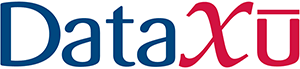
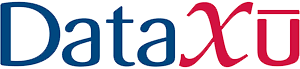
minor edits to camp

diff --git a/c/master.css b/c/master.css
@@ -921,6 +921,7 @@ sponsors
   width: 100%;  /* Change as we start getting more sponsors */
   max-width: 120px;
   text-align: center;
+  vertical-align: top;
   margin: 40px 0;
   display: inline-block;
 

diff --git a/camp/index.php b/camp/index.php
@@ -37,7 +37,7 @@
 			<h2 style="padding-bottom: 80px;">Summer</h2>
 
 			<p class="intro">
-				This summer, we'll be co-hosting the Media Leadership Center with our friends at
+				This summer, we'll be co-hosting the Media Leadership Institute with our friends at
 				<a href="http://www.presspasstv.org/" target="_blank">Press Pass TV</a>, designing and building a functional
 				prototype	for the Mayor's Office. And on August 20th, they will be presenting their work to an audience at Demo Day.
 			</p>
@@ -77,7 +77,22 @@
 				Video and original music by Andy Laub of <a href="http://asithappens.tv" target="_blank">As It Happens Films.</a>
 			</p>
 			<div id="sponsors">
-      <p>Our camps are made possible by our sponsors:</p>
+			<p>Media Leadership Institute 2015 is made possible by our sponsors:</p>
+			<a href="http://tugg.org" title="Tech Underwriting Greater Good" target="_blank">
+        <img src="https://delmarsenties.s3.amazonaws.com/resilient/logos/tugg.png" style="padding-top:12px;" />
+      </a>
+			<a href="https://twitter.com/bpdshannon" title="Boston Police Department Shannon Grant" target="_blank" >
+        <img src="img/bpd.png"/>
+      </a>
+			<a href="http://svb.com" title="Silicon Valley Bank" target="_blank" class="horizontal">
+        <img src="img/svb.png"/>
+      </a>
+			<a href="https://testive.com/" title="Testive" target="_blank" style="margin:0;">
+        <img src="img/testive.png"/>
+      </a>
+			<div class="clr"></div>
+
+      <p>Boston Coding Camp 2015 was made possible by our sponsors:</p>
       <a href="http://tugg.org" title="Tech Underwriting Greater Good" target="_blank">
         <img src="https://delmarsenties.s3.amazonaws.com/resilient/logos/tugg.png" style="padding-top:12px;" />
       </a>
@@ -97,7 +112,7 @@
         <img src="img/NextStepLiving.png" />
       </a>
       <a href="http://wilmerhale.com/" title="Wilmer Hale" target="_blank" class="horizontal">
-        <img src="img/WilmerHale.JPG" />
+        <img src="img/WilmerHale.png" />
       </a>
       <a href="http://dataxu.com/" title="DataXu" target="_blank"  >
         <img src="img/DataXu.png" />
